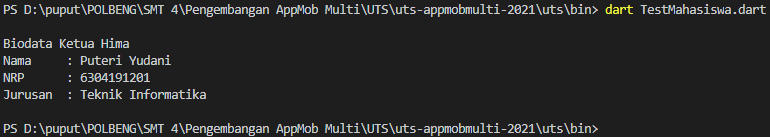
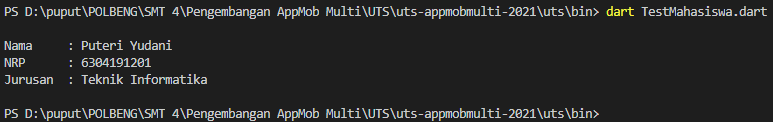
Menampilkan Informasi Biodata Ketua Hima

Changed region(s): [[0.0, 0.0246, 0.9974, 0.1475], [0.0, 0.2705, 0.2805, 0.7377], [0.0, 0.8852, 0.7792, 1.0]]

diff --git a/uts/bin/TestMahasiswa.dart b/uts/bin/TestMahasiswa.dart
@@ -8,9 +8,6 @@ void main(List<String> args) {
   ketuaHima.jurusan = "Teknik Informatika";
 
   print("");
-  print("Biodata Ketua Hima");
-  print("Nama     : " + ketuaHima.nama);
-  print("NRP      : " + ketuaHima.nrp.toString());
-  print("Jurusan  : " + ketuaHima.jurusan);
+  ketuaHima.info();
   print("");
 }

diff --git a/uts/lib/KetuaHima.dart b/uts/lib/KetuaHima.dart
@@ -7,4 +7,10 @@ class KetuaHima extends Mahasiswa {
   set jurusan(String jurusan) {
     _jurusan = jurusan;
   }
+
+  void info() {
+    print("Nama     : " + nama);
+    print("NRP      : " + nrp.toString());
+    print("Jurusan  : " + jurusan);
+  }
 }

diff --git a/uts/lib/Mahasiswa.dart b/uts/lib/Mahasiswa.dart
@@ -11,4 +11,9 @@ class Mahasiswa {
   set nrp(int nrp) {
     _nrp = nrp;
   }
+
+  void info() {
+    print("Nama     : " + nama);
+    print("NRP      : " + nrp.toString());
+  }
 }
